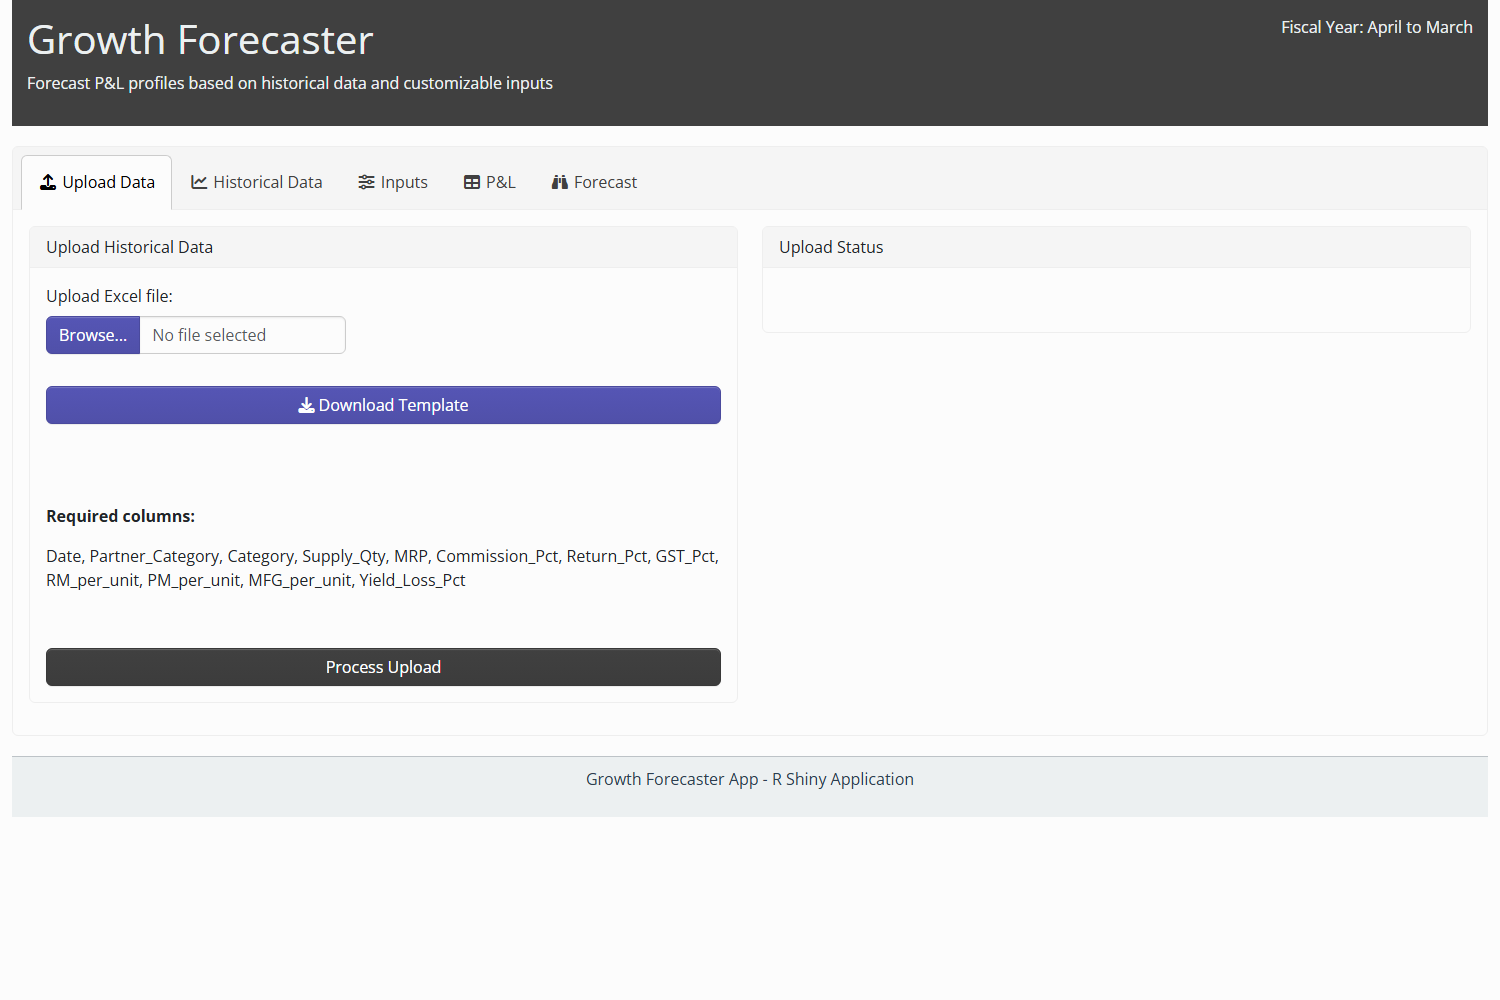
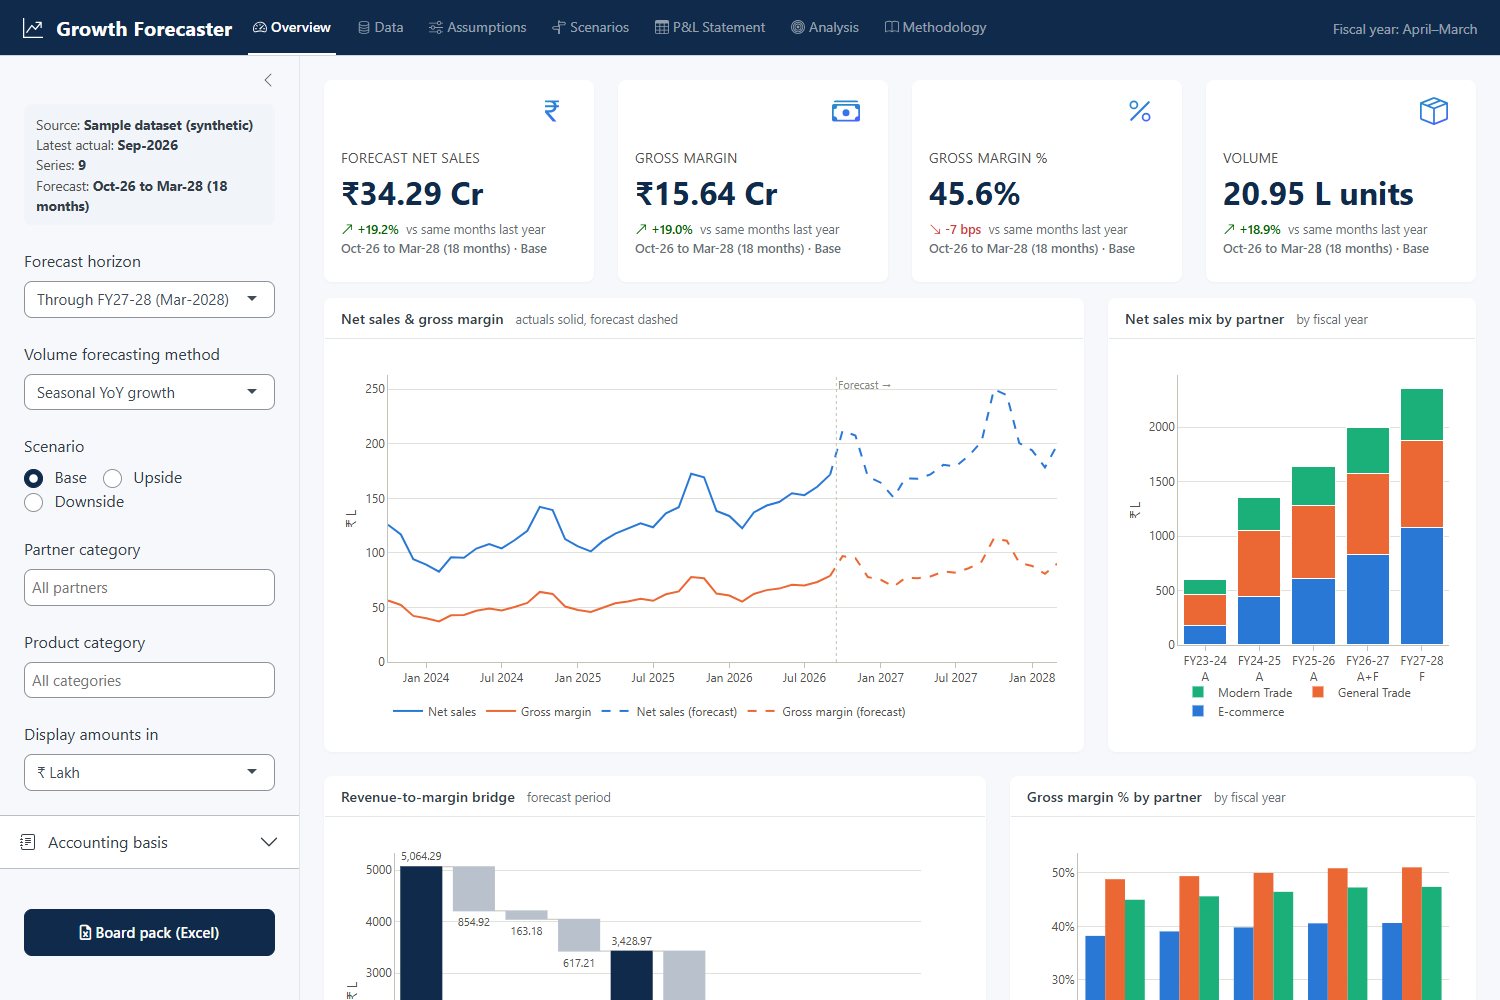
Growth Forecaster: new Overview thumbnail, link to the live app

diff --git a/index.html b/index.html
@@ -540,7 +540,7 @@
     <!-- smaller -->
     <div class="more">
       <article class="card rv">
-        <img src="growth_forecaster.png" width="1500" height="1000" loading="lazy" alt="Growth Forecaster R Shiny application: tabbed interface across Upload Data, Historical Data, Inputs, P and L and Forecast; the upload tab shows an Excel file picker, a download-template button, the list of required columns, and a process-upload action.">
+        <img src="growth_forecaster.png" width="1500" height="1000" loading="lazy" alt="Growth Forecaster R Shiny application, Overview tab on the sample dataset: a sidebar with forecast horizon, volume method, Base/Upside/Downside scenario and partner and category filters; tiles for forecast net sales, gross margin, gross margin % and volume against the same months last year; a net sales and gross margin line chart with the forecast dashed, net sales mix by partner by fiscal year, and a revenue-to-margin bridge.">
         <div class="in">
           <h3>Growth Forecaster</h3>
           <div class="tags"><span>R Shiny</span></div>
@@ -550,7 +550,10 @@
             the P&amp;L respond.</p>
           <p>Naming every driver out loud is what stops a forecast quietly collapsing back into one
             optimistic number.</p>
-          <div class="go"><a class="pill" href="https://github.com/illusionist-creator/sale-forecaster">Source</a></div>
+          <div class="go">
+            <a class="pill solid" href="https://keyurtbd.shinyapps.io/growth_forecaster/">Open the app <span class="arr">&rarr;</span></a>
+            <a class="pill" href="https://github.com/illusionist-creator/sale-forecaster">Source</a>
+          </div>
         </div>
       </article>
       <article class="card rv">
